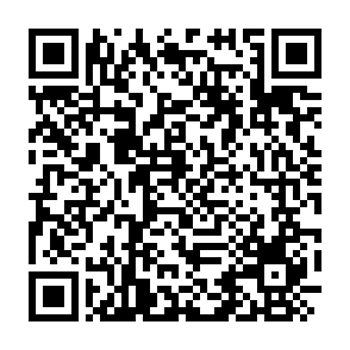
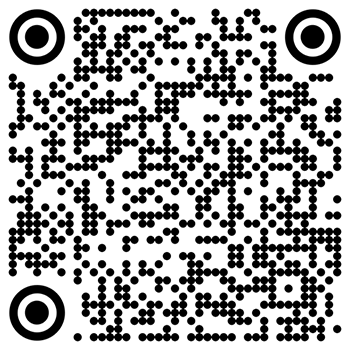
Update fallback WNP [fix #14501]

diff --git a/bedrock/firefox/templates/firefox/whatsnew/index.html b/bedrock/firefox/templates/firefox/whatsnew/index.html
@@ -4,9 +4,12 @@
  file, You can obtain one at https://mozilla.org/MPL/2.0/.
 #}
 
+{% from "macros.html" import google_play_button, apple_app_store_button with context %}
+
 {% extends "firefox/whatsnew/base.html" %}
 
-{% block page_title %}{{ftl('whatsnew-s2d-download-firefox-for-android')}}{% endblock %}
+{% block page_title %}{{ ftl('whatsnew-s2d-download-firefox-for-android') }}{% endblock %}
+{% block page_desc %}{{ ftl('whatsnew-page-description') }}{% endblock %}
 
 {#- This will appear as <meta property="og:description"> which can be used for social share -#}
 {% block page_og_desc %}{{ ftl('whatsnew-page-description') }}{% endblock %}
@@ -20,41 +23,28 @@
   {{ css_bundle('firefox_whatsnew') }}
 {% endblock %}
 
-{% set show_send_to_device = LANG in settings.SEND_TO_DEVICE_LOCALES %}
-
-{% set send_to_device_message_set = 'fx-whatsnew' %}
+{% set android_url = play_store_url('firefox', 'firefox-whatsnew') %}
+{% set ios_url = app_store_url('firefox', 'firefox-whatsnew') %}
 
 {% block wnp_content %}
-  <section class="wnp-content-main{% if show_send_to_device %} show-send-to-device{% endif %}">
-    <div class="mzp-l-content mzp-t-content-md">
-      <header>
-        <div class="mzp-c-logo mzp-t-logo-lg mzp-t-product-firefox"></div>
-      {# If user is in a locale with translated basket messages... #}
-      {% if show_send_to_device %}
-        {% if ftl_has_messages('whatsnew-s2d-want-privacy-on-every-device', 'whatsnew-s2d-you-got-it-get-firefox-for') %}
-          <h1 class="wnp-main-title">{{ ftl('whatsnew-s2d-want-privacy-on-every-device') }}</h1>
-          <p class="wnp-main-tagline">{{ ftl('whatsnew-s2d-you-got-it-get-firefox-for') }}</p>
-        {% else %}
-          <h1 class="wnp-main-title">{{ ftl('whatsnew-s2d-send-firefox-to-your-phone') }}</h1>
-        {% endif %}
-      {# For users not in a locale with translated basket messages... #}
-      {% else %}
-        <h1 class="wnp-main-title">{{ ftl('whatsnew-s2d-download-firefox-for-your') }}</h1>
-      {% endif %}
-      </header>
+<section class="wnp-content-main">
+  <div class="mzp-l-content mzp-t-content-md">
+    <h1 class="wnp-main-title">{{ ftl('whatsnew-s2d-download-firefox-for-your') }}</h1>
 
-      {# Only certain locales get send_to_device, else they see a QRCode. #}
-      {% if show_send_to_device %}
-        <div id="send-to-device-wrapper" class="primary-cta">
-          {{ send_to_device(include_title=False, message_set=send_to_device_message_set, spinner_color='#fff;') }}
-        </div>
-      {% else %}
-        <div id="qr-wrapper" class="primary-cta">
-          <img src="{{ static('img/firefox/whatsnew/qrcode-firefox-whatsnew.png') }}" width="250" height="250" alt="">
-        </div>
-      {% endif %}
+    <div class="qr-wrapper">
+      <img class="qr-code" src="{{ static('img/firefox/whatsnew/qrcode-firefox-whatsnew.png') }}" width="180" height="180" alt="{{ ftl('whatsnew-s2d-qr-code-alt') }}">
     </div>
-  </section>
+
+    <ul class="mobile-download-buttons">
+      <li class="android">
+        {{ google_play_button(href=android_url, id='play-store-link') }}
+      </li>
+      <li class="ios">
+        {{ apple_app_store_button(href=ios_url, id='app-store-link') }}
+      </li>
+    </ul>
+  </div>
+</section>
 {% endblock %}
 
 {% block js %}

diff --git a/media/css/firefox/whatsnew/whatsnew.scss b/media/css/firefox/whatsnew/whatsnew.scss
@@ -7,8 +7,6 @@ $image-path: '/media/protocol/img';
 
 @import '~@mozilla-protocol/core/protocol/css/includes/lib';
 @import '~@mozilla-protocol/core/protocol/css/components/notification-bar';
-@import '~@mozilla-protocol/core/protocol/css/components/logos/logo';
-@import '~@mozilla-protocol/core/protocol/css/components/logos/logo-product-firefox';
 @import 'includes/base';
 @import 'includes/dark-mode';
 
@@ -19,15 +17,20 @@ $image-path: '/media/protocol/img';
     padding: 0;
     text-align: center;
 
+    & > .mzp-l-content {
+        padding-top: $layout-sm;
+        padding-bottom: $layout-sm;
+    }
+
     @media #{$mq-tall} {
         padding-top: $layout-md;
         margin-bottom: $layout-lg;
-    }
-}
 
-.mzp-c-logo {
-    margin-left: auto;
-    margin-right: auto;
+        & > .mzp-l-content {
+            padding-top: $layout-lg;
+            padding-bottom: $layout-lg;
+        }
+    }
 }
 
 .wnp-main-title {
@@ -43,36 +46,36 @@ $image-path: '/media/protocol/img';
     @include text-body-lg;
 }
 
-.send-to-device {
-    margin: 0 auto;
+.qr-wrapper {
+    position: relative;
+    width: 210px;
+    height: 315px;
+    margin: $spacing-lg auto;
+    background: transparent url('/media/img/firefox/whatsnew/qr-wrapper-foxphone.svg') center top no-repeat;
+    background-size: 210px 315px;
+
+    .qr-code {
+        position: absolute;
+        top: 118px;
+        left: 50%;
+        margin-left: -90px;
+    }
 }
 
-#qr-wrapper {
-    margin: $spacing-lg auto;
+.mobile-download-buttons li {
+    padding-top: $spacing-sm;
+    display: inline-block;
 }
 
 // * -------------------------------------------------------------------------- */
 // For dark mode
 @media (prefers-color-scheme: dark) {
     .wnp-main-title,
-    .wnp-main-tagline,
-    .c-picto-block .c-picto-block-title {
+    .wnp-main-tagline {
         color: $title-text-color-inverse;
 
         @supports (--css: variables) {
             color: var(--title-text-color-inverse);
-        }
-    }
-
-    .send-to-device {
-        color: $color-white;
-
-        h2.thank-you {
-            color: $title-text-color-inverse;
-
-            @supports (--css: variables) {
-                color: var(--title-text-color-inverse);
-            }
         }
     }
 }

diff --git a/bedrock/firefox/views.py b/bedrock/firefox/views.py
@@ -379,7 +379,6 @@ class WhatsnewView(L10nTemplateView):
         "firefox/developer/whatsnew.html": ["firefox/developer"],
         "firefox/developer/whatsnew-mdnplus.html": ["firefox/whatsnew/whatsnew-developer-mdnplus"],
         "firefox/nightly/whatsnew.html": ["firefox/nightly/whatsnew", "firefox/whatsnew/whatsnew"],
-        "firefox/whatsnew/index-account.html": ["firefox/whatsnew/whatsnew-account", "firefox/whatsnew/whatsnew"],
         "firefox/whatsnew/index.html": ["firefox/whatsnew/whatsnew-s2d", "firefox/whatsnew/whatsnew"],
         "firefox/whatsnew/whatsnew-fx119-eu-relay.html": ["firefox/whatsnew/whatsnew"],
         "firefox/whatsnew/whatsnew-fx119-eu-trio-v1.html": ["firefox/whatsnew/whatsnew"],
@@ -403,6 +402,7 @@ class WhatsnewView(L10nTemplateView):
         "firefox/whatsnew/whatsnew-fx126beta-fr.html": ["firefox/whatsnew/whatsnew"],
         "firefox/whatsnew/whatsnew-fx126-na.html": ["firefox/whatsnew/whatsnew"],
         "firefox/whatsnew/whatsnew-fx126-eu.html": ["firefox/whatsnew/whatsnew"],
+        "firefox/whatsnew/whatsnew-fx126-mobile.html": ["firefox/whatsnew/whatsnew-account", "firefox/whatsnew/whatsnew"],
     }
 
     # specific templates that should not be rendered in
@@ -579,14 +579,11 @@ class WhatsnewView(L10nTemplateView):
             else:
                 template = "firefox/whatsnew/index.html"
         else:
-            if show_default_account_whatsnew(version) and ftl_file_is_active("firefox/whatsnew/whatsnew-account"):
-                template = "firefox/whatsnew/index-account.html"
-            else:
-                template = "firefox/whatsnew/index.html"
+            template = "firefox/whatsnew/index.html"
 
         # do not promote Mozilla VPN in excluded countries.
         if country in settings.VPN_EXCLUDED_COUNTRY_CODES and template in self.vpn_excluded_templates:
-            template = "firefox/whatsnew/index-account.html"
+            template = "firefox/whatsnew/index.html"
 
         # return a list to conform with original intention
         return [template]

diff --git a/bedrock/firefox/tests/test_base.py b/bedrock/firefox/tests/test_base.py
@@ -281,7 +281,7 @@ class TestWhatsNew(TestCase):
         self.view(req, version="70.0")
         template = render_mock.call_args[0][1]
         ctx = render_mock.call_args[0][2]
-        assert template == ["firefox/whatsnew/index-account.html"]
+        assert template == ["firefox/whatsnew/index.html"]
         assert ctx["version"] == "70.0"
         assert ctx["analytics_version"] == "70"
         assert ctx["entrypoint"] == "mozilla.org-whatsnew70"
@@ -478,7 +478,7 @@ class TestWhatsNew(TestCase):
         req = self.rf.get("/en-US/firefox/whatsnew/")
         self.view(req, version="60.0")
         template = render_mock.call_args[0][1]
-        assert template == ["firefox/whatsnew/index-account.html"]
+        assert template == ["firefox/whatsnew/index.html"]
 
     @override_settings(DEV=True)
     @patch.object(fx_views, "ftl_file_is_active", lambda *x: False)
